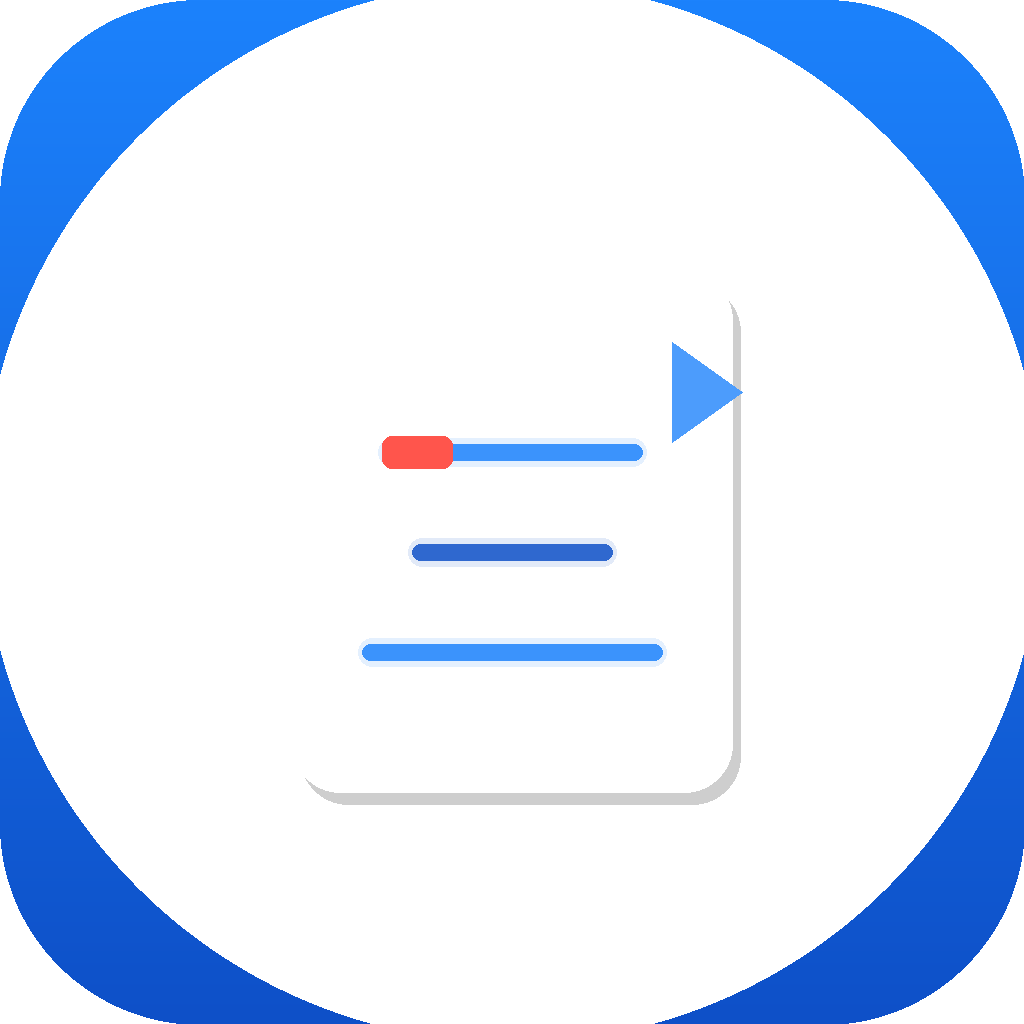
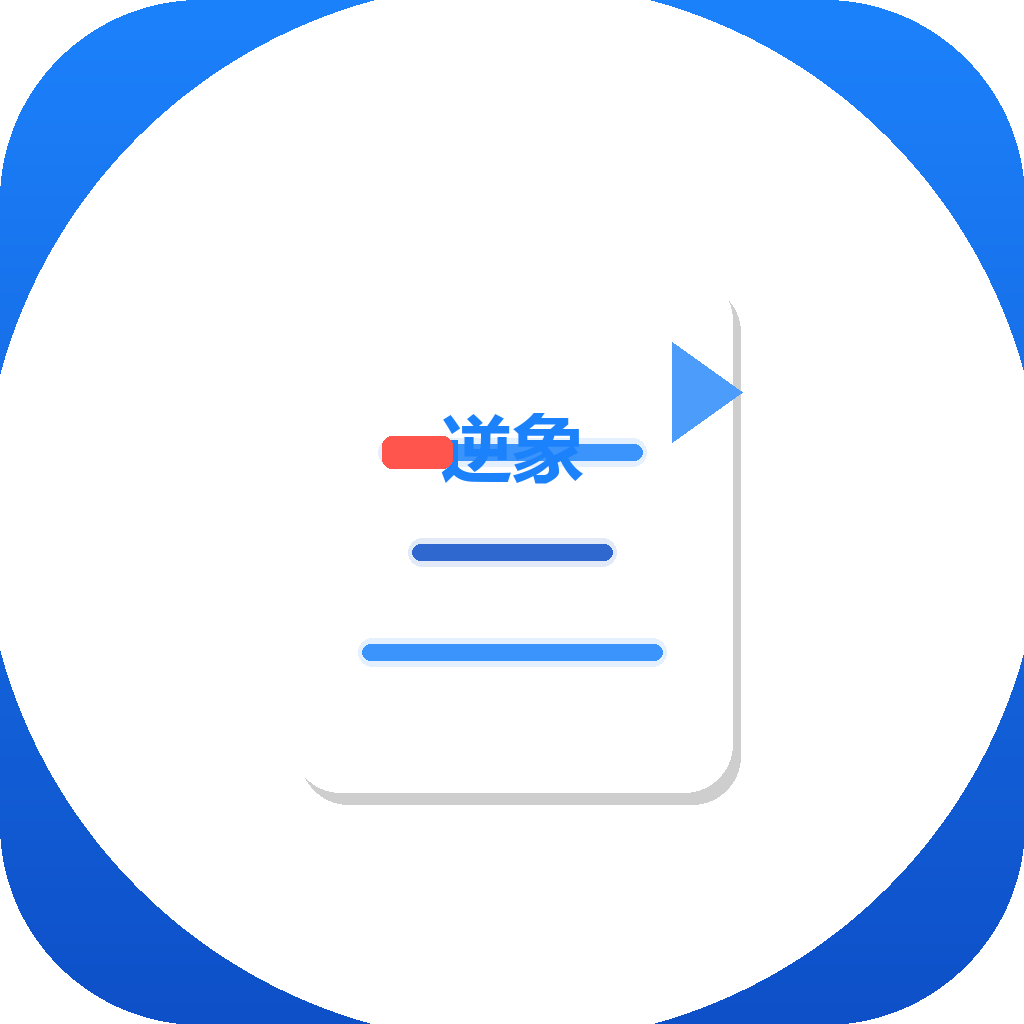
rename: App名称改为"逆象提词"，更新图标文字

Changed region(s): [[0.4375, 0.4062, 0.5625, 0.4688]]

diff --git a/www/index.html b/www/index.html
@@ -7,7 +7,7 @@
 <meta name="apple-mobile-web-app-capable" content="yes">
 <meta name="apple-mobile-web-app-status-bar-style" content="black-translucent">
 <meta name="format-detection" content="telephone=no">
-<title>智能提词器 Pro</title>
+<title>逆象提词</title>
 <link rel="stylesheet" href="css/style.css">
 </head>
 <body>
@@ -15,7 +15,7 @@
 <!-- ===== HEADER ===== -->
 <div class="header">
   <div class="app-icon">&#x1F3AC;</div>
-  <div class="app-title">智能提词器 Pro</div>
+  <div class="app-title">逆象提词</div>
   <div class="app-sub">Teleprompter &middot; iPhone 13 专属</div>
   <div class="badge-row">
     <span class="badge">&#x1F399; 音量感应</span>
@@ -233,8 +233,8 @@
     <div class="main">
       <div class="about-card">
         <div class="app-icon" style="width:64px;height:64px;margin:0 auto 12px;border-radius:16px;font-size:28px">&#x1F3AC;</div>
-        <div class="about-title">智能提词器 Pro</div>
-        <div class="app-sub" style="color:var(--text-muted);font-size:13px;margin-top:4px">v1.0.0 &middot; iPhone 13 优化版</div>
+        <div class="about-title">逆象提词</div>
+        <div class="app-sub" style="color:var(--text-muted);font-size:13px;margin-top:4px">v1.0.0 · iPhone 13 优化版</div>
         <div class="about-desc" style="margin-top:12px">专为短视频创作者设计的专业提词器，支持 AI 智能跟读，让您从此告别背稿烦恼。</div>
       </div>
 

diff --git a/capacitor.config.ts b/capacitor.config.ts
@@ -2,7 +2,7 @@ import type { CapacitorConfig } from '@capacitor/cli';
 
 const config: CapacitorConfig = {
   appId: 'com.teleprompter.pro',
-  appName: '智能提词器 Pro',
+  appName: '逆象提词',
   webDir: 'www',
 
   // iOS 专属配置

diff --git a/scripts/generate-icon-v2.py b/scripts/generate-icon-v2.py
@@ -1,6 +1,6 @@
 #!/usr/bin/env python3
 """
-智能提词器 Pro — 简洁现代 App 图标
+逆象提词 — 简洁现代 App 图标
 清新蓝白配色 + 极简提词符符号
 """
 import os, sys, math
@@ -64,6 +64,22 @@ for lc, lw, ly in zip(line_colors, line_widths, line_y):
         [CX - lw // 2, ly - 8, CX + lw // 2, ly + 8],
         radius=12, fill=(*lc[:3], 220)
     )
+
+# ── 5b. 渲染"逆象"文字在卡片上 ──
+try:
+    font_path = r"C:\Windows\Fonts\msyhbd.ttc"
+    font_size = 72
+    font = ImageFont.truetype(font_path, font_size)
+except Exception:
+    font = ImageFont.load_default()
+
+text = "逆象"
+bbox = draw.textbbox((0, 0), text, font=font)
+tw = bbox[2] - bbox[0]
+th = bbox[3] - bbox[1]
+tx = CX - tw // 2
+ty = CY - th // 2 - 80
+draw.text((tx, ty), text, fill=(28, 130, 252, 255), font=font)
 
 # ── 6. 播放三角 + 高亮标记 ──
 # 红色高亮块（当前行）